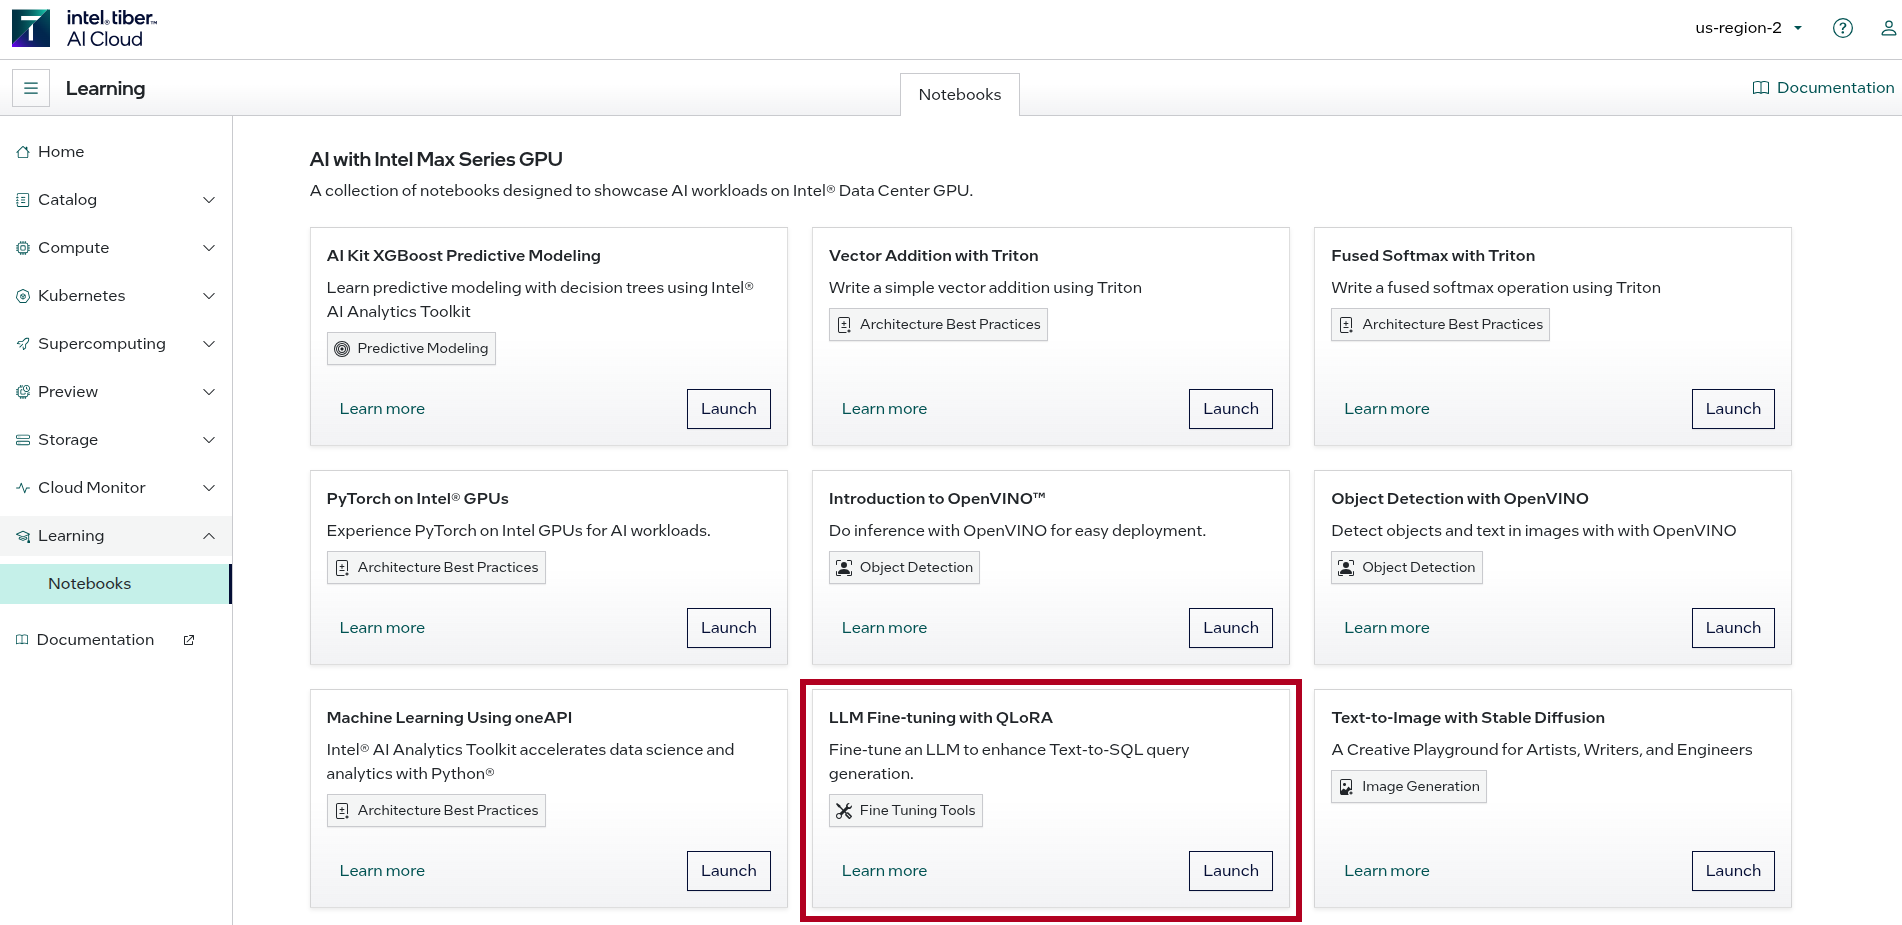
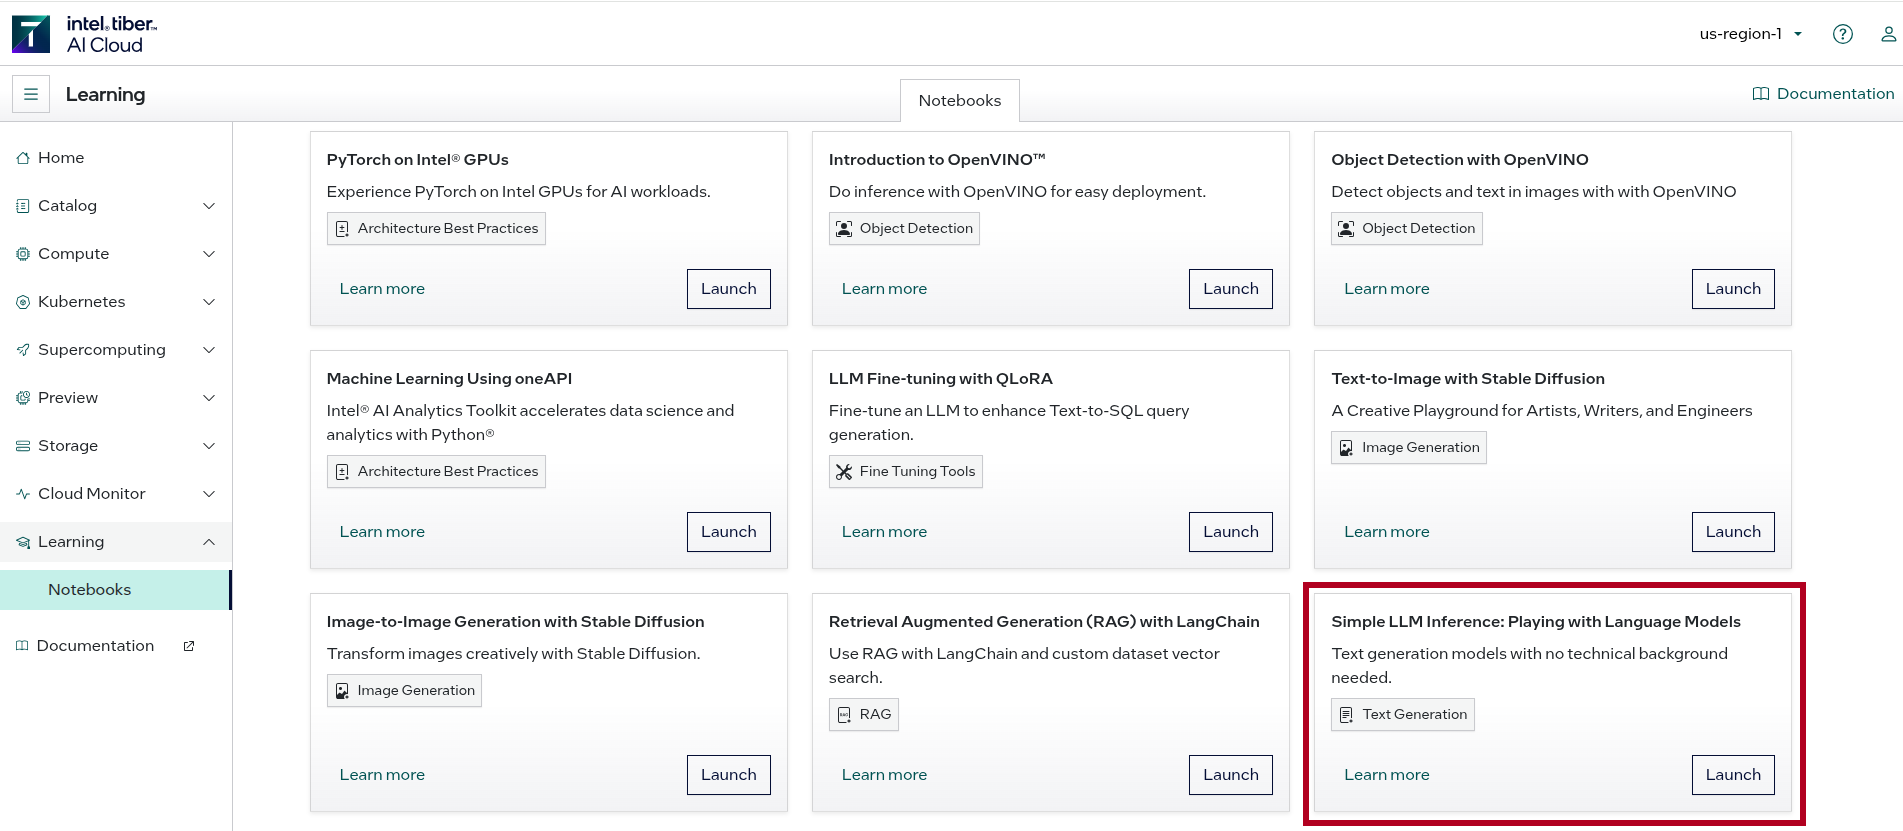
Updated StartHere.md

diff --git a/StartHere.md b/StartHere.md
@@ -34,9 +34,9 @@ Once your account registration has been approved, you will be able to access the
 
 You can learn about JupyterLab through this [tutorial](https://console.cloud.intel.com/docs/tutorials/jupyter_learning.html).
 
-Most lab assignments and excerises have been validated to work with the "PyTorch 2.6" kernel provided by Intel Tiber Cloud. They Jupyter environment loads only one kernel at a time, based on the specific example notebook that you launch. If you want to use another kernel, you will need to log out of that Jupyter session and launch another example notebook. This means that you must launch an example notebook that uses the "PyTorch 2.6" kernel before working on any lab assignments or execerises.
+Some lab assignments and excerises have been validated to work with specific kernels (mostly the "PyTorch GPU" and "PyTorch 2.6" kernels) provided by Intel Tiber Cloud. They Jupyter environment loads only one kernel at a time, based on the specific example notebook that you launch. If you want to use another kernel, you will need to log out of that Jupyter session and launch another example notebook. This means that you must launch an example notebook that uses the "PyTorch GPU" or "PyTorch 2.6" kernel before working on any lab assignments or execerises that require that specific kernel.
 
-One of the example notebooks that uses the "PyTorch 2.6" kernel is "LLM Fine-tuning with QLoRA". Once you navigate to the [notebook dashboard](https://console.cloud.intel.com/learning/notebooks) you will find this notebook under the "AI with Intel Max Series GPU" section (highligted in the image below).
+One of the example notebooks that uses the "PyTorch GPU" kernel is "Simple LLM Inference: Playing with Language Models". Once you navigate to the [notebook dashboard](https://console.cloud.intel.com/learning/notebooks) you will find this notebook under the "AI with Intel Max Series GPU" section (highligted in the image below).
 
 ![Intel Tiber Cloud Notebooks](./imgs/tiber-notebook-dashboard.png)
 
